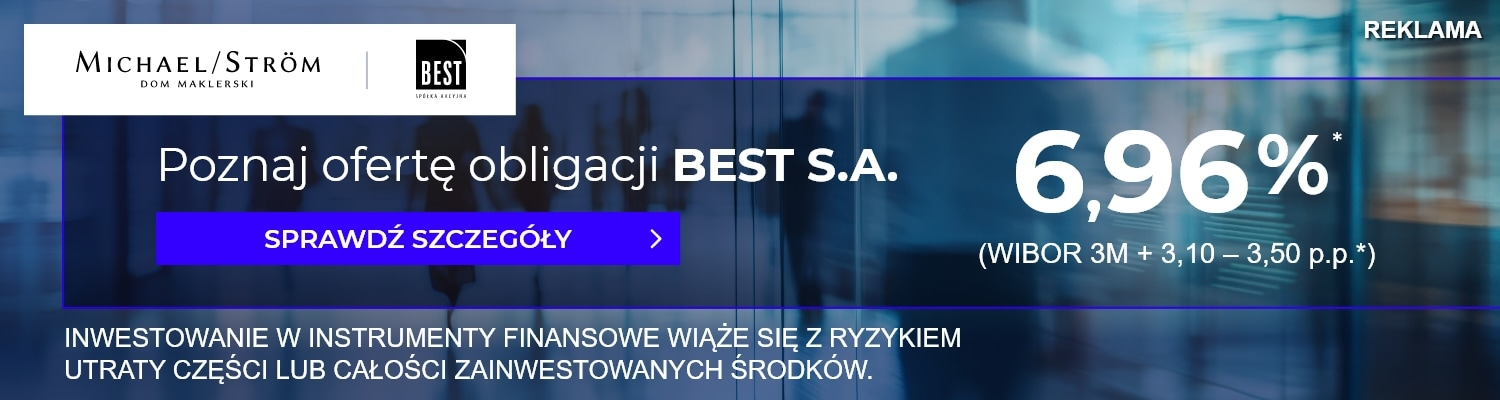
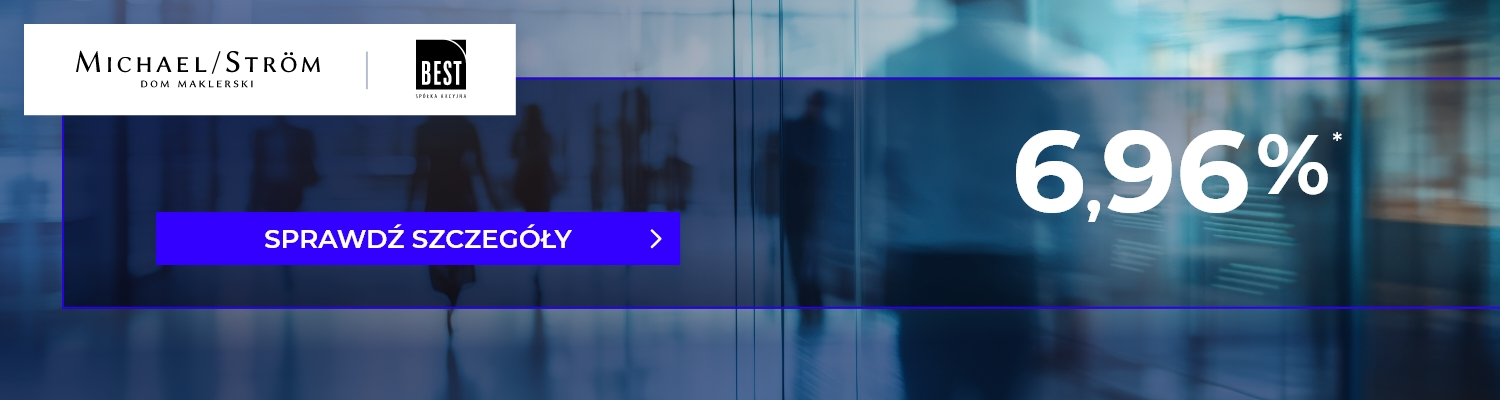
gixed build process

diff --git a/src/ads/750x200/index.html b/src/ads/750x200/index.html
@@ -71,7 +71,8 @@
 
         .data-btn:hover path,
         .data-btn:hover rect {
-            filter: brightness(1.8);
+            /* lighten 50% */
+            filter: brightness(1.8)
         }
 
         .op0 {
@@ -174,7 +175,37 @@
                 <image width="750" height="200" href="images/f.jpg" />
 
                 <g class="data-slide-1">
-
+                    <text transform="translate(32 161.392)" fill="#fff" font-size="13" font-family="ArialMT, Arial"
+                        opacity="0.997">
+                        <tspan x="0" y="12">
+                            INWESTOWANIE W INSTRUMENTY FINANSOWE WIĄŻE SIĘ Z RYZYKIEM
+                        </tspan>
+                        <tspan x="0" y="28">
+                            UTRATY CZĘŚCI LUB CAŁOŚCI ZAINWESTOWANYCH ŚRODKÓW.
+                        </tspan>
+                    </text>
+                    <g transform="matrix(1, 0, 0, 1, 0, 0)" filter="url(#j)">
+                        <text transform="translate(741 19)" fill="#fff" font-size="12" font-family="Arial-BoldMT, Arial"
+                            font-weight="700" letter-spacing="-0.009em">
+                            <tspan x="-59.346" y="0">
+                                REKLAMA
+                            </tspan>
+                        </text>
+                    </g>
+                    <text transform="translate(78 90.549)" fill="#fff" font-size="23"
+                        font-family="Montserrat-Regular, Montserrat" letter-spacing="-0.006em">
+                        <tspan x="0" y="0">
+                            Poznaj ofertę obligacji
+                        </tspan>
+                        <tspan y="0" font-family="Montserrat-Bold, Montserrat" font-weight="700">
+                            BEST S.A.
+                        </tspan>
+                    </text>
+                    <text transform="translate(489 131.5)" fill="#fff" font-size="14" font-family="ArialMT, Arial">
+                        <tspan x="0" y="0">
+                            (WIBOR 3M + 3,10 – 3,50 p.p.*)
+                        </tspan>
+                    </text>
                     <g class="data-btn" transform="translate(-220 -56.997)">
                         <path d="M0,0H262.055V26.5H0Z" transform="translate(298 163)" fill="#30f" />
                         <text transform="translate(429 181.221)" fill="#fff" font-size="13"
@@ -183,60 +214,60 @@
                                 SPRAWDŹ SZCZEGÓŁY
                             </tspan>
                         </text>
-                        <path
-                            d="M-2605.244,737.212a.648.648,0,0,1-.466-.2.65.65,0,0,1,.013-.919l3.667-3.564-3.672-3.65a.65.65,0,0,1,0-.919.65.65,0,0,1,.919,0l4.141,4.116a.65.65,0,0,1,.192.465.65.65,0,0,1-.2.462l-4.141,4.025A.648.648,0,0,1-2605.244,737.212Z"
-                            transform="translate(3151.238 -556.124)" fill="#fff" />
+                        <g class="data-arrow">
+                            <path
+                                d="M-2605.244,737.212a.648.648,0,0,1-.466-.2.65.65,0,0,1,.013-.919l3.667-3.564-3.672-3.65a.65.65,0,0,1,0-.919.65.65,0,0,1,.919,0l4.141,4.116a.65.65,0,0,1,.192.465.65.65,0,0,1-.2.462l-4.141,4.025A.648.648,0,0,1-2605.244,737.212Z"
+                                transform="translate(3151.238 -556.124)" fill="#fff" />
+                        </g>
                     </g>
                 </g>
                 <g class="data-slide-2" style="opacity:0; visibility: hidden;">
-                    <g id="c" clip-path="url(#d)">
-                        <rect width="750" height="200" fill="#001e5f" />
-                        <text transform="translate(17 25)" fill="#fff" font-size="14" font-family="ArialMT, Arial"
-                            opacity="0.964">
-                            <tspan x="28.97" y="13">
-                                *Przykładowa kalkulacja oprocentowania obligacji w skali roku. Do obliczeń przyjęto
-                                wartość stopy WIBOR
-                            </tspan>
-                            <tspan x="13.422" y="31">
-                                dla 3-miesięcznych depozytów złotówkowych na polskim rynku międzybankowym (WIBOR 3M –
-                                stopa bazowa)
-                            </tspan>
-                            <tspan x="18.453" y="49">
-                                z dnia 13 lutego 2026 r., kiedy to wynosiła 3,86% oraz najniższy możliwy poziom marży w
-                                wysokości 3,10 p.p.
-                            </tspan>
-                            <tspan x="24.308" y="67">
-                                Rzeczywisty poziom oprocentowania obligacji serii AF1 w pierwszym okresie odsetkowym
-                                zostanie ustalony
-                            </tspan>
-                            <tspan x="26.229" y="85">
-                                na podstawie stopy bazowej WIBOR dla 3-miesięcznych depozytów złotówkowych z dnia 16
-                                marca 2026 r.,
-                            </tspan>
-                            <tspan x="29.353" y="103">
-                                powiększonej o marżę ustaloną przez Emitenta w oparciu o zapisy złożone przez Inwestorów
-                                w wysokości
-                            </tspan>
-                            <tspan x="37.006" y="121">
-                                z zakresu 3,10 – 3,50 p.p. a opisaną w Ostatecznych Warunkach Emisji Obligacji serii
-                                AF1. W kolejnych
-                            </tspan>
-                            <tspan x="30.136" y="139">
-                                okresach odsetkowych, rzeczywista stopa bazowa, a tym samym oprocentowanie obligacji
-                                serii AF1 może
-                            </tspan>
-                            <tspan x="70.618" y="157">
-                                być wyższe, niższe lub pozostać na tym samym poziomie, co w przedstawionym przykładzie.
+                    <rect width="750" height="200" fill="#001e5f" />
+                    <text transform="translate(17 25)" fill="#fff" font-size="14" font-family="ArialMT, Arial"
+                        opacity="0.964">
+                        <tspan x="28.97" y="13">
+                            *Przykładowa kalkulacja oprocentowania obligacji w skali roku. Do obliczeń przyjęto
+                            wartość stopy WIBOR
+                        </tspan>
+                        <tspan x="13.422" y="31">
+                            dla 3-miesięcznych depozytów złotówkowych na polskim rynku międzybankowym (WIBOR 3M –
+                            stopa bazowa)
+                        </tspan>
+                        <tspan x="18.453" y="49">
+                            z dnia 13 lutego 2026 r., kiedy to wynosiła 3,86% oraz najniższy możliwy poziom marży w
+                            wysokości 3,10 p.p.
+                        </tspan>
+                        <tspan x="24.308" y="67">
+                            Rzeczywisty poziom oprocentowania obligacji serii AF1 w pierwszym okresie odsetkowym
+                            zostanie ustalony
+                        </tspan>
+                        <tspan x="26.229" y="85">
+                            na podstawie stopy bazowej WIBOR dla 3-miesięcznych depozytów złotówkowych z dnia 16
+                            marca 2026 r.,
+                        </tspan>
+                        <tspan x="29.353" y="103">
+                            powiększonej o marżę ustaloną przez Emitenta w oparciu o zapisy złożone przez Inwestorów
+                            w wysokości
+                        </tspan>
+                        <tspan x="37.006" y="121">
+                            z zakresu 3,10 – 3,50 p.p. a opisaną w Ostatecznych Warunkach Emisji Obligacji serii
+                            AF1. W kolejnych
+                        </tspan>
+                        <tspan x="30.136" y="139">
+                            okresach odsetkowych, rzeczywista stopa bazowa, a tym samym oprocentowanie obligacji
+                            serii AF1 może
+                        </tspan>
+                        <tspan x="70.618" y="157">
+                            być wyższe, niższe lub pozostać na tym samym poziomie, co w przedstawionym przykładzie.
+                        </tspan>
+                    </text>
+                    <g transform="matrix(1, 0, 0, 1, 0, 0)" filter="url(#a)">
+                        <text transform="translate(741 19)" fill="#fff" font-size="12" font-family="Arial-BoldMT, Arial"
+                            font-weight="700" letter-spacing="-0.009em">
+                            <tspan x="-59.346" y="0">
+                                REKLAMA
                             </tspan>
                         </text>
-                        <g transform="matrix(1, 0, 0, 1, 0, 0)" filter="url(#a)">
-                            <text transform="translate(741 19)" fill="#fff" font-size="12"
-                                font-family="Arial-BoldMT, Arial" font-weight="700" letter-spacing="-0.009em">
-                                <tspan x="-59.346" y="0">
-                                    REKLAMA
-                                </tspan>
-                            </text>
-                        </g>
                     </g>
 
                 </g>

diff --git a/gulpfile.js b/gulpfile.js
@@ -276,7 +276,7 @@ exports.buildJs = buildJs;
 //     return tasks;
 // });
 
-var watchJs = gulp.series(buildJs, buildHtml, wpBuilder, cleanBuildJs, deploy, deployWpBuilder, function (cb) {
+var watchJs = gulp.series(cleanInlinedImages, cleanInlinedFonts, copySharedImages, copyImages, subsetFonts, buildJs, buildHtml, wpBuilder, cleanBuildJs, cleanInlinedImages, cleanInlinedFonts, deploy, deployWpBuilder, function (cb) {
     // TO DO:
     // Make it so it is not needed to copy all
     // external JS libraries on each reload
@@ -295,8 +295,7 @@ function buildHtml(cb) {
         var stream = gulp.src(path.join('src/ads', folder, "*.html"))
             .pipe(plugin.replace(/{AD_SIZE}/g, getAdsSize(folder))) // replace {ADS_SIZE}
             .pipe(plugin.replace(/{PROJECT_NAME}/g, getProjectName())) // replace {PROJECT_NAME} with folder name
-            .pipe(plugin.replace(/<!--[\s\S]+?-->/g, "")) // remove comments
-            .pipe(gulp.dest(path.join("build/", folder)));
+            .pipe(plugin.replace(/<!--[\s\S]+?-->/g, "")); // remove comments
         
         if (compressImages) {
             stream = stream
@@ -306,10 +305,12 @@ function buildHtml(cb) {
                 .pipe(plugin.replace(/src="images\/([^"]+)\.png"/g, 'src="images/$1.webp"'));
         }
         
-        stream = stream.pipe(inlinesource({
-            compress: true,
-            rootpath: path.join('build', folder)
-        }));
+        stream = stream
+            .pipe(gulp.dest(path.join("build/", folder)))
+            .pipe(inlinesource({
+                compress: true,
+                rootpath: path.join('build', folder)
+            }));
 
         if (inlineImagesEnabled) {
             stream = stream.pipe(inlineImages({
@@ -361,8 +362,7 @@ function wpBuilder(cb) {
             .pipe(plugin.replace(/<!--[\s\S]+?-->/g, "<!--.-->")) // remove comments
             .pipe(plugin.replace(/<script inline src="clicktag\.js"><\/script>/g, "")) // remove comments
             .pipe(plugin.replace(/<a id="clicktag"/g, "<div id=\"clicktag\"")) // 
-            .pipe(plugin.replace(/<\/a>/g, "</div>")) // 
-            .pipe(gulp.dest(path.join("build-wp-builder/", folder)));
+            .pipe(plugin.replace(/<\/a>/g, "</div>"));
         
         if (compressImages) {
             stream = stream
@@ -372,10 +372,12 @@ function wpBuilder(cb) {
                 .pipe(plugin.replace(/src="images\/([^"]+)\.png"/g, 'src="images/$1.webp"'));
         }
         
-        stream = stream.pipe(inlinesource({
-            compress: true,
-            rootpath: path.join('build-wp-builder', folder)
-        }));
+        stream = stream
+            .pipe(gulp.dest(path.join("build-wp-builder/", folder)))
+            .pipe(inlinesource({
+                compress: true,
+                rootpath: path.join('build-wp-builder', folder)
+            }));
 
         if (inlineImagesEnabled) {
             stream = stream.pipe(inlineImages({
@@ -731,7 +733,7 @@ function watch(cb) {
     gulp.watch("src/**/*.css", gulp.series(buildCss));
     gulp.watch(
         "src/**/*.html",
-        gulp.series(copySharedImages, copyImages, subsetFonts, buildScripts, buildHtml, wpBuilder, cleanInlinedImages, cleanInlinedFonts, cleanBuildJs, deploy, deployWpBuilder, function (cb) {
+        gulp.series(cleanInlinedImages, cleanInlinedFonts, copySharedImages, copyImages, subsetFonts, buildScripts, buildHtml, wpBuilder, cleanBuildJs, cleanInlinedImages, cleanInlinedFonts, deploy, deployWpBuilder, function (cb) {
             browserSync.reload();
             cb();
         })

diff --git a/src/ads/750x200/main.js b/src/ads/750x200/main.js
@@ -5,33 +5,44 @@ function on(selector, eventName, eventHandler) {
 }
 
 function init() {
-    var b = gsap
-        .timeline()
-        .to(".data-btn", 0.6, {
-            scale: 1.2,
-            transformOrigin: "50%",
-            ease: "Power4.easeIn",
-        })
-        .to(".data-btn", 0.6, {
-            scale: 1,
-            transformOrigin: "50%",
-            ease: "Power4.easeOut",
-        });
-    // gsap.set(".smog",{scale:1.1, transformOrigin:"50% 50%"});
+    // var b = gsap
+    //     .timeline()
+    //     .to(".data-btn", 0.6, {
+    //         scale: 1.2,
+    //         transformOrigin: "50%",
+    //         ease: "Power4.easeIn",
+    //     })
+    //     .to(".data-btn", 0.6, {
+    //         scale: 1,
+    //         transformOrigin: "50%",
+    //         ease: "Power4.easeOut",
+    //     });
+    // // gsap.set(".smog",{scale:1.1, transformOrigin:"50% 50%"});
 
-    var t = gsap.timeline({ repeat: -1, repeatDelay: 5, delay: 0 });
-    t.from(".text", .4,{ x:"+=20", opacity: 0, ease:"Power4.easeOut", stagger: .2 },0.5); 
-    t.add(b, 2);
+    // var t = gsap.timeline({ repeat: -1, repeatDelay: 5, delay: 0 });
+    // t.from(".text", .4,{ x:"+=20", opacity: 0, ease:"Power4.easeOut", stagger: .2 },0.5);
+    // t.add(b, 2);
+
+    var MAX_ANIM_LENGTH = 25;
 
 
-
-    var slides = gsap.timeline({ repeat: 3, repeatDelay: 5, delay: 3 });
+    var slides = gsap.timeline({ repeat: -1, repeatDelay: 5, delay: 3 });
     // slides.to(".data-slide-1", 0.2, { autoAlpha: 0, scale:.95, transformOrigin: "50%", });
     slides.fromTo(".data-slide-2", 0.2,{ autoAlpha:0, scale:.95, transformOrigin: "50%", }, { autoAlpha: 1, scale:1, transformOrigin: "50%", }, 0);
-    slides.to(".data-slide-2", 0.2, { autoAlpha: 0, scale:.95, transformOrigin: "50%", }, 5);
+    slides.to(".data-slide-2", 0.2, { autoAlpha: 0, scale: .95, transformOrigin: "50%", }, 5);
     // slides.to(".data-slide-1", 0.2, { autoAlpha: 1, scale:1, transformOrigin: "50%", }, 5);
-   
     
+    
+    // arrows
+    var arrows = gsap.timeline({ repeat: -1, repeatDelay: 0 });
+    arrows.to(".data-arrow", 0.4, { x:"-=10px", ease:"Sine.easeIn" });
+    arrows.to(".data-arrow", 0.4, { x: "+=10px", ease: "Sine.easeOut" });
+    
+    gsap.delayedCall(MAX_ANIM_LENGTH, function () {
+        arrows.revert();
+        slides.revert();
+    });
+
 
     var scene = gsap.timeline({ paused: true });
     // scene.to(".data-scene1", 0.2, { opacity: 0 });
